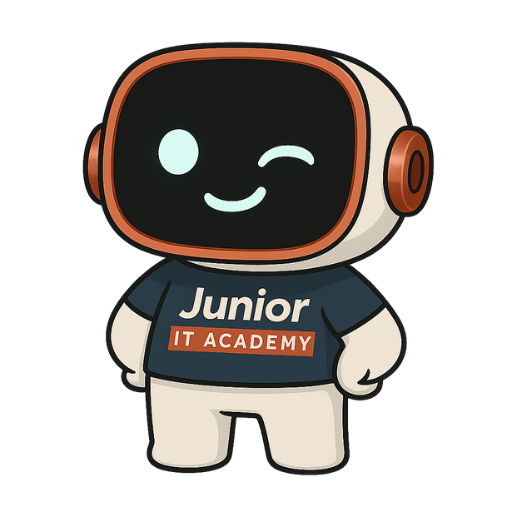
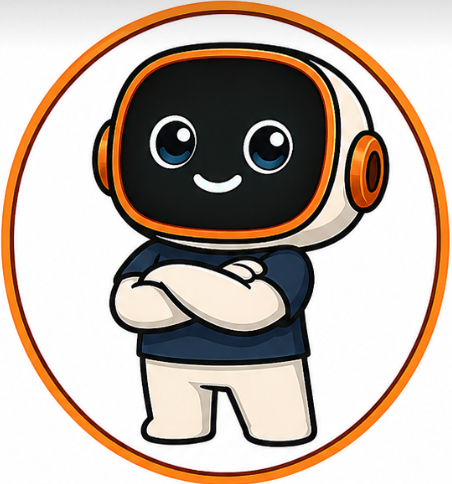
mentor image

diff --git a/src/components/1-Modull/InternetLesson.jsx b/src/components/1-Modull/InternetLesson.jsx
@@ -969,8 +969,8 @@ export default function HtmlLesson({ lang: langProp, onFinished }) {
 
         /* === MENTOR === */
         .mentor { display: flex; gap: 12px; align-items: flex-start; }
-        .mentor-ava { width: 40px; height: 40px; border-radius: 50%; overflow: hidden; flex-shrink: 0; background: ${T.accentSoft}; box-shadow: 0 4px 12px -4px rgba(${T.shadowBase},0.28); }
-        .mentor-ava img { display: block; width: 100%; height: 100%; object-fit: contain; transform: scale(1.12); }        .mentor-col { flex: 1; min-width: 0; display: flex; flex-direction: column; gap: 5px; }
+        .mentor-ava { width: 40px; height: 40px; border-radius: 50%; overflow: hidden; flex-shrink: 0; background: #E5D2B0; box-shadow: 0 4px 12px -4px rgba(${T.shadowBase},0.28); }
+        .mentor-ava img { display: block; width: 100%; height: 100%; object-fit: contain; transform: scale(1.152717129); }        .mentor-col { flex: 1; min-width: 0; display: flex; flex-direction: column; gap: 5px; }
         .mentor-name { font-family: 'Manrope', sans-serif; font-weight: 700; font-size: 13px; color: ${T.accent}; letter-spacing: 0.01em; }
         .mentor-msg { background: ${T.paper}; border-radius: 4px 14px 14px 14px; padding: 13px 16px; color: ${T.ink}; box-shadow: 0 6px 18px -6px rgba(${T.shadowBase},0.16); }
 